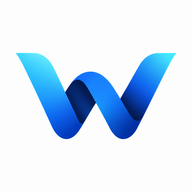
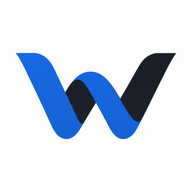
docs: adopt the approved two-tone Weaver mark

Changed region(s): [[0.0938, 0.25, 0.9062, 0.75]]

diff --git a/tools/BRAND-ASSETS.md b/tools/BRAND-ASSETS.md
@@ -1,13 +1,11 @@
-# Approved Weaver PNG identity
+# Approved Weaver two-tone PNG identity
 
[1 lines of base64/hex data omitted]
+The standard W has blue front faces and near-black reverse faces, with restrained shading and no pale/cyan terminal fade. Use the **same mark on light and dark backgrounds**. The shape and transparency derive from the supplied raster reference; this is not the rejected SVG approximation.
 
-`docs/assets/brand/` retains the native transparent full logos and compact W marks for light and dark backgrounds. Transparency was extracted from the raster reference; it is not native vector artwork. The `*-134.png` marks are 134 × 77 web derivatives of the approved 670 × 385 crops, downsampled with Pillow LANCZOS at unchanged aspect ratio.
+`docs/assets/brand/` contains the canonical transparent mark, its 134 × 77 web derivative, and full logos. The `light`/`dark` mark filenames are retained for existing references but contain identical bytes. Full-logo variants differ only in the original dark/light wordmark below the W; the lettering has not been redrawn.
 
-Headers and footers display the compact mark at **30 CSS pixels wide**, with proportional height, a 6-pixel gap to the name, and an explicit maximum width. The dark comparison heading uses a 28-pixel dark variant. Do not place the large stacked logo in the navigation or let intrinsic image width determine header size. Material's header keeps the mark and title together in one link; its mobile drawer uses the same selected-theme artwork.
+Headers and footers retain the accepted **30 CSS pixel** mark width, proportional height and 6-pixel gap to the name. The comparison-table mark remains 28 pixels. Keep the docs mark and Weaver title together in one link. Do not let intrinsic image dimensions set the navigation size or substitute a large stacked logo there.
 
-The default `og.png` and comparison `og-dbt.png` are exact copies of the approved light 1200 × 630 card, without rerendering, new wording or changed spacing. The approved dark card is retained under `assets/brand/`. Developer docs use the same approved light card, including the retained topic-specific OG URL. Each page's existing social title/description is preserved; image alt text describes the actual logo card.
+The default `og.png`, comparison `og-dbt.png` and developer-docs default/topic OG assets use the updated full logo at the existing centred position on a 1200 × 630 card. Only the W artwork changes; background, wordmark, spacing, page-specific social titles/descriptions and metadata URLs remain unchanged. The dark card is retained under `assets/brand/`.
 
-`favicon.png`, `favicon.ico`, `apple-touch-icon.png`, and the 192/512 manifest icons come from the approved asset bundle. Keep manifest dimensions aligned with the files.
-
-Both repositories contain checked-in publication image bytes. No image-processing library, browser renderer or runtime visualisation library is added to either site. Publication still requires approval; review-branch pushes and private previews are not deployment.
+Favicons, Apple touch icons and the 192/512 manifest icons use this same two-tone mark. Keep manifest dimensions aligned with the actual files. PNGs are checked-in publication assets: no image processor, renderer or visualisation runtime is added to either site. A review-branch push/private preview is not a public deployment.
